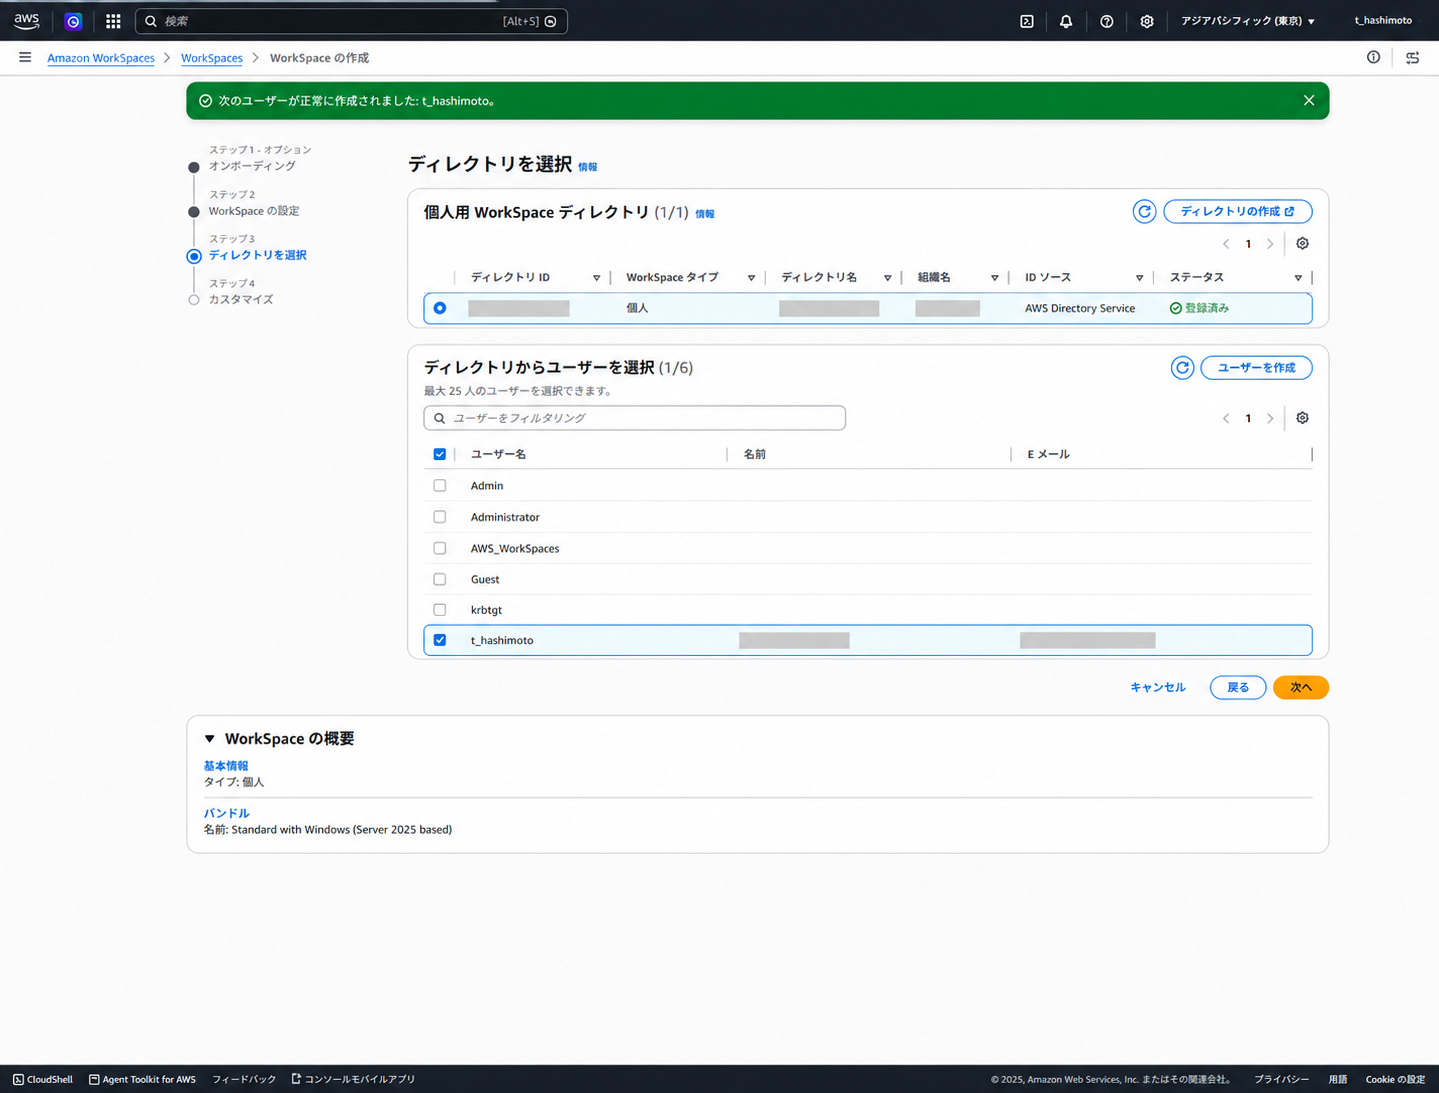
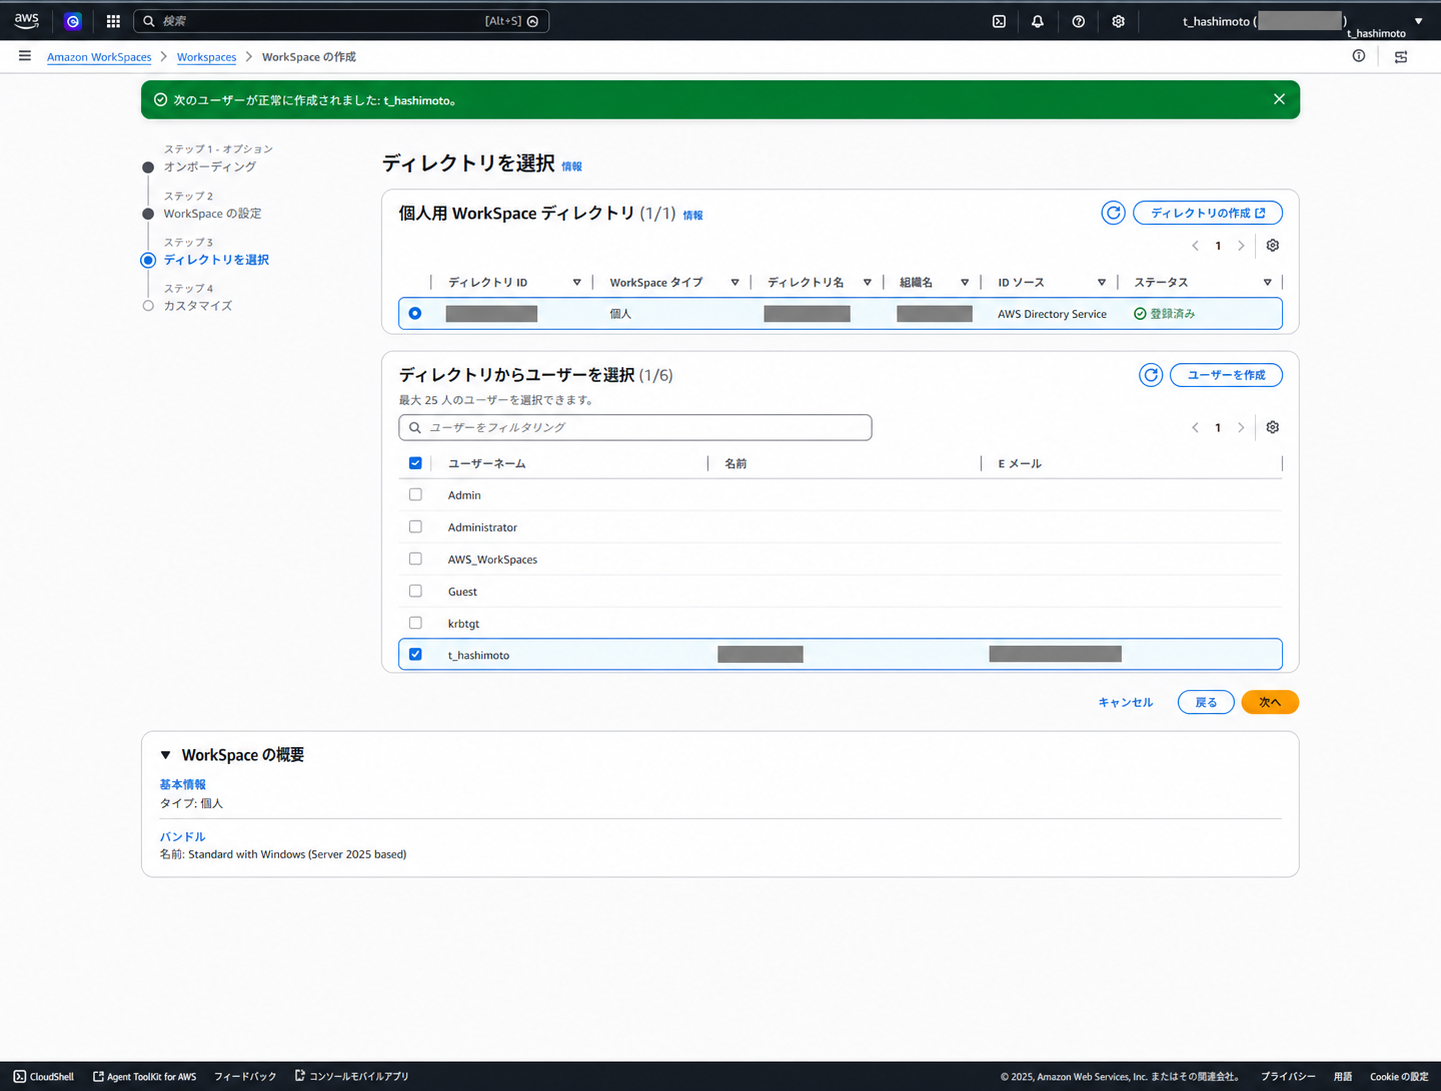
Refine WorkSpaces guide scope

diff --git a/tutorials/amazon-workspaces.html b/tutorials/amazon-workspaces.html
@@ -303,60 +303,8 @@
 
       <div class="callout callout-warning">
         <strong>⚠️ 注意</strong>
-        <p>カスタムイメージを作成する予定があるWorkSpaceでは、ボリューム暗号化の扱いに注意します。AWS公式ドキュメントでは、暗号化されたWorkSpaceからのイメージ作成はサポートされないとされています</p>
+        <p>カスタムイメージを作成する予定があるWorkSpaceでは、ボリューム暗号化の扱いに注意します。AWS公式ドキュメントでは、暗号化されたWorkSpaceからのイメージ作成はサポートされません</p>
       </div>
-
-      <h2 id="web-access">Web Access</h2>
-      <p>Web Accessを使うと、WorkSpacesクライアントアプリをインストールせずに、対応ブラウザからWorkSpacesへ接続できます。利用するには、管理者側でWeb Accessを有効化します</p>
-
-      <ol>
-        <li>Amazon WorkSpacesのディレクトリ設定を開きます</li>
-        <li>ディレクトリの詳細更新から、アクセス制御オプションを確認します</li>
-        <li>Web Accessを有効化します</li>
-        <li>必要に応じて、対象WorkSpaceをリビルドまたは再作成します</li>
-        <li><a href="https://clients.amazonworkspaces.com/">WorkSpacesクライアントページ</a> からWeb Accessに接続します</li>
-      </ol>
-
-      <div class="callout">
-        <strong>ℹ️ 情報</strong>
-        <p>Web Access は DCV ベースの Windows / Linux WorkSpaces で利用します。PCoIP Web Access は 2025 年 11 月 7 日以降、新規顧客への提供を終了しており、既存利用者向けには重要な機能・セキュリティ更新のみが提供されます。Web Access を新たに設計する場合は DCV を前提に確認します</p>
-      </div>
-      <p>公式情報: <a href="https://docs.aws.amazon.com/workspaces/latest/userguide/amazon-workspaces-web-access.html">WorkSpaces Web Access</a></p>
-
-      <h2 id="image-bundle">カスタムイメージ・バンドル</h2>
-      <p>WorkSpaceにOS設定やアプリケーションを入れた後、同じ構成を再利用するためにカスタムイメージとカスタムバンドルを作成します</p>
-
-      <table>
-        <thead>
-          <tr>
-            <th>区分</th>
-            <th>確認内容</th>
-          </tr>
-        </thead>
-        <tbody>
-          <tr>
-            <td>イメージ作成前</td>
-            <td>WorkSpaceのステータスがAvailableで、変更状態がNoneであることを確認します</td>
-          </tr>
-          <tr>
-            <td>Windows</td>
-            <td>Image Checkerを実行し、失敗または警告を解消してからイメージ化します</td>
-          </tr>
-          <tr>
-            <td>Linux</td>
-            <td>ユーザーボリューム配下にアプリケーションを含めないようにし、必要コンポーネントを確認します</td>
-          </tr>
-          <tr>
-            <td>暗号化</td>
-            <td>暗号化されたWorkSpaceからはカスタムイメージを作成できないため、要件定義時点で暗号化の必要性とイメージ運用を整理します</td>
-          </tr>
-          <tr>
-            <td>バンドル</td>
-            <td>カスタムイメージとコンピュート・ストレージ構成を組み合わせ、以後のWorkSpaces作成時に利用します</td>
-          </tr>
-        </tbody>
-      </table>
-      <p>公式情報: <a href="https://docs.aws.amazon.com/workspaces/latest/adminguide/create-custom-bundle.html">Create a custom WorkSpaces image and bundle for WorkSpaces Personal</a></p>
 
     </main>
 
@@ -370,8 +318,6 @@
       <a href="#directory-accounts">アカウントの役割</a>
       <a href="#register-directory">ディレクトリ登録</a>
       <a href="#provision">WorkSpaces Personal作成</a>
-      <a href="#web-access">Web Access</a>
-      <a href="#image-bundle">イメージ・バンドル</a>
     </aside>
   </div>
   <script src="../assets/app.js"></script>